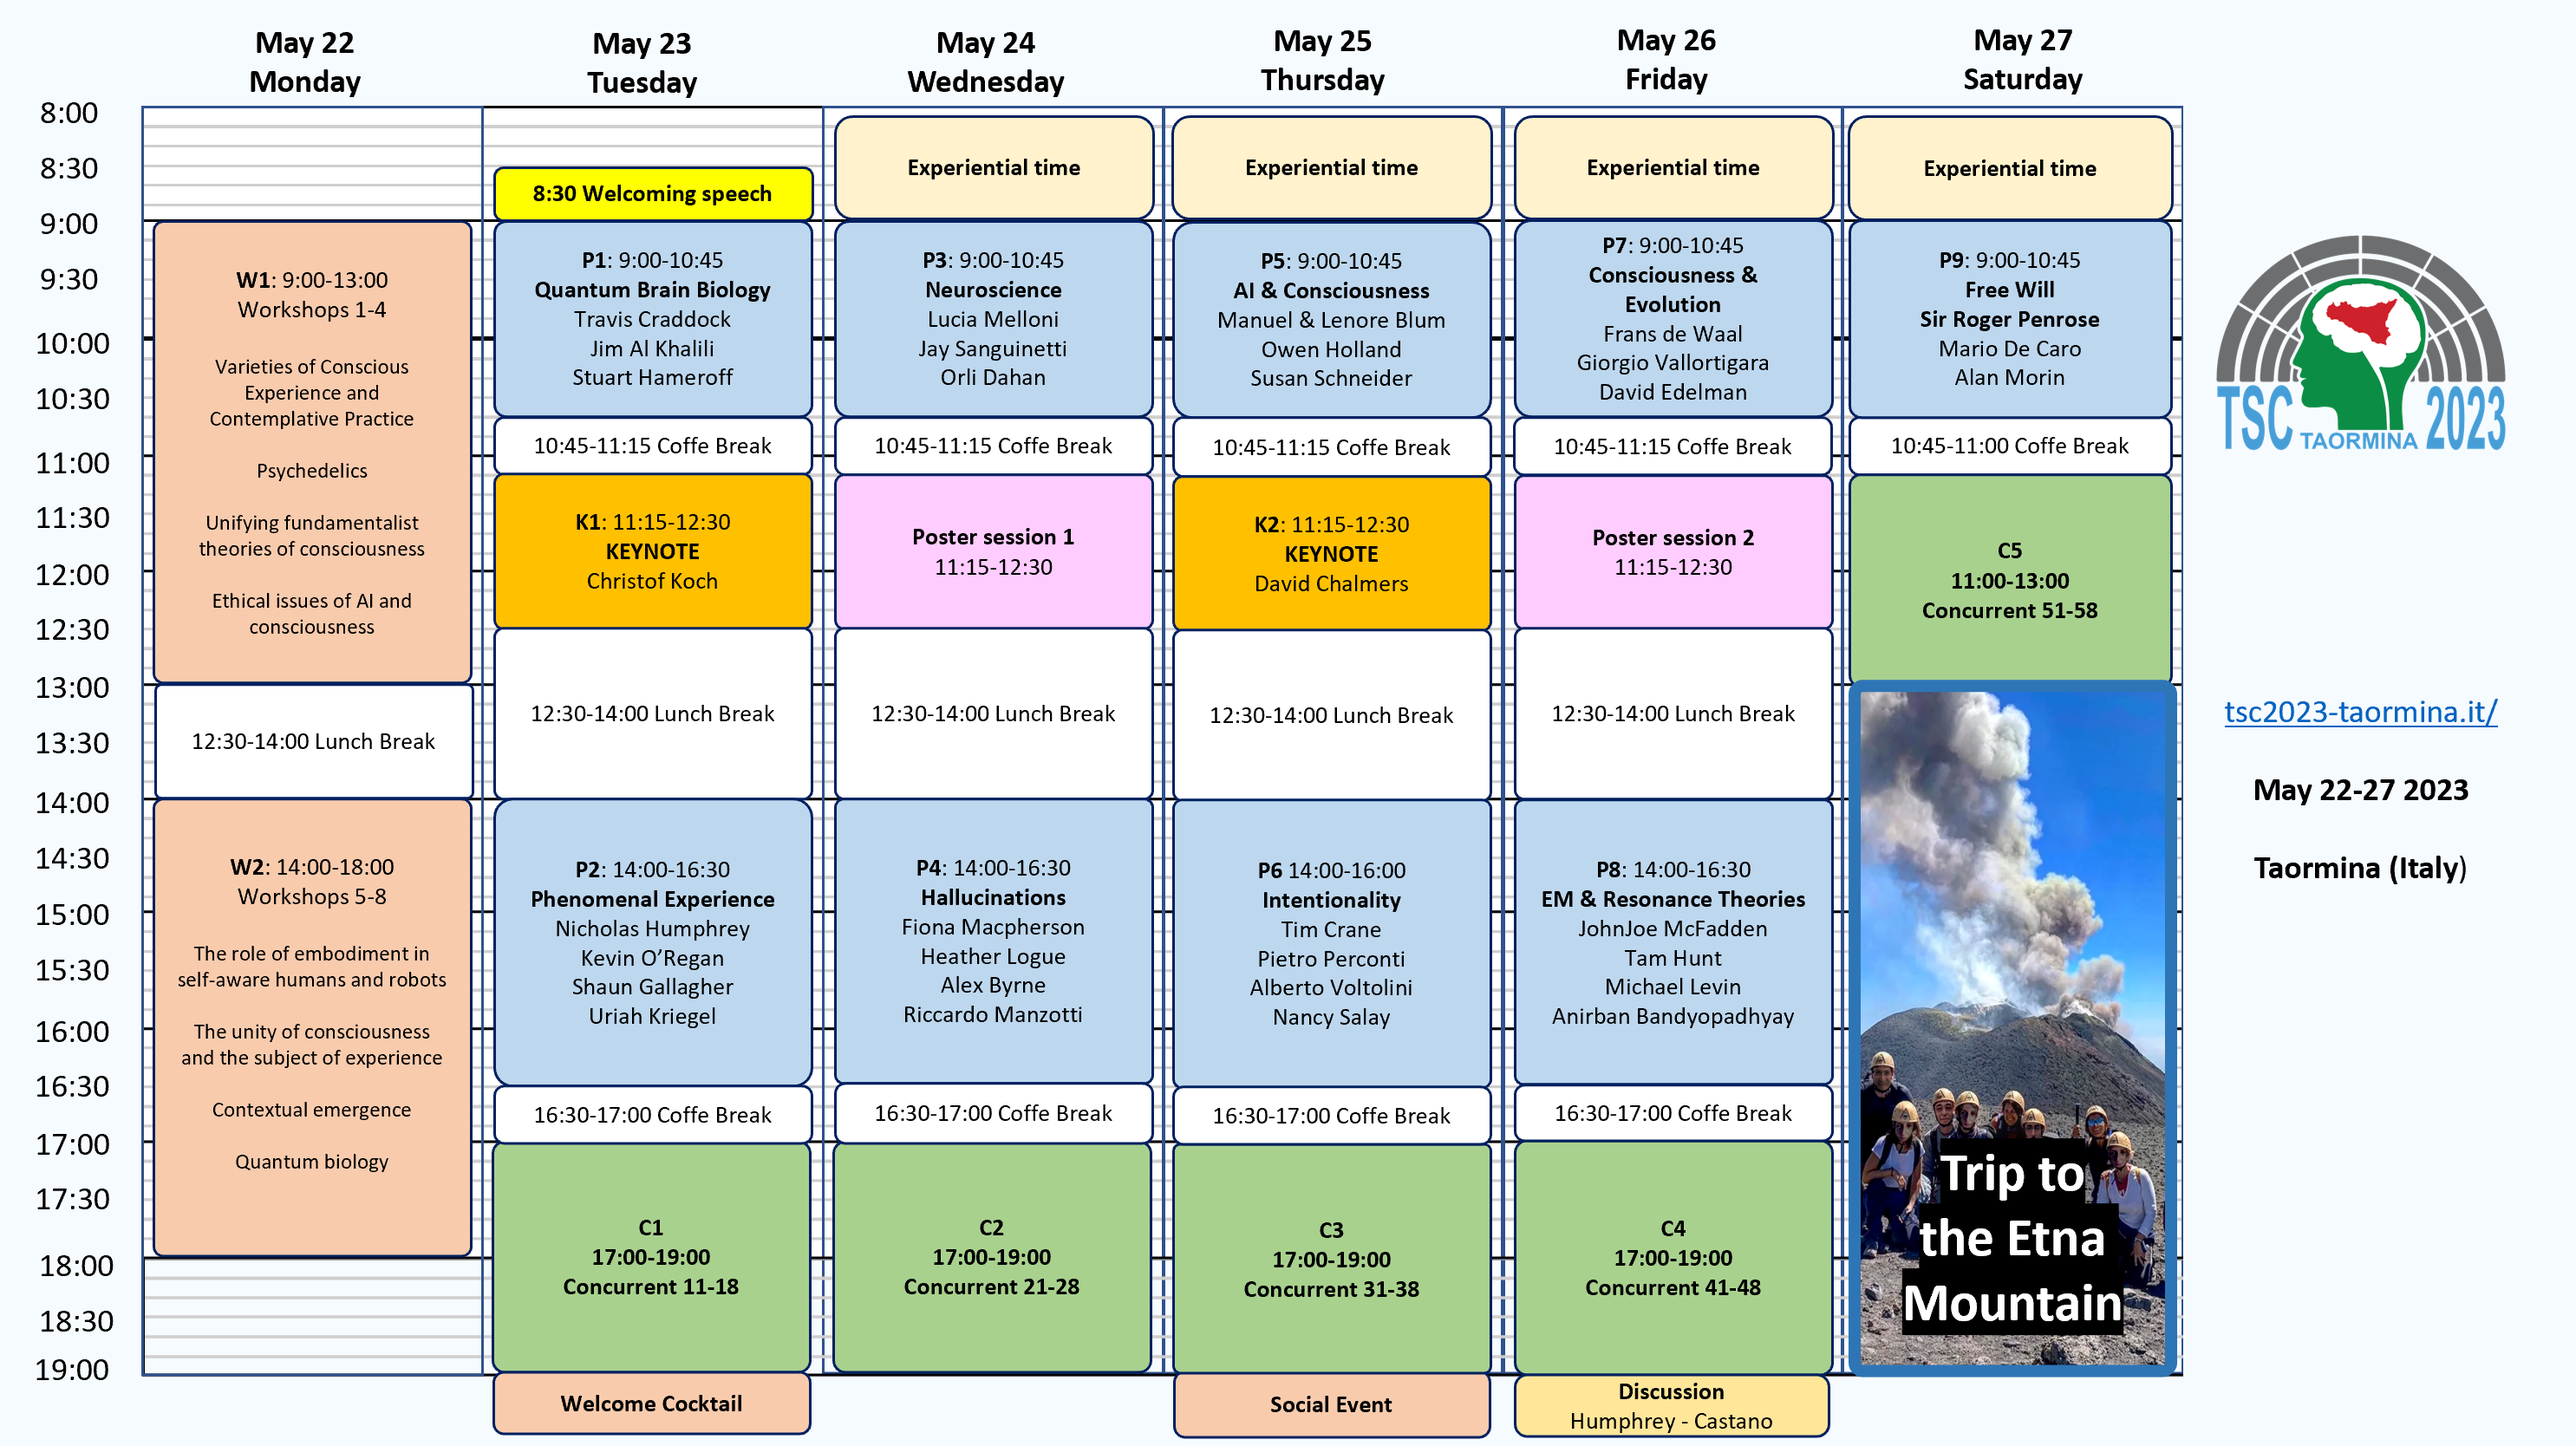
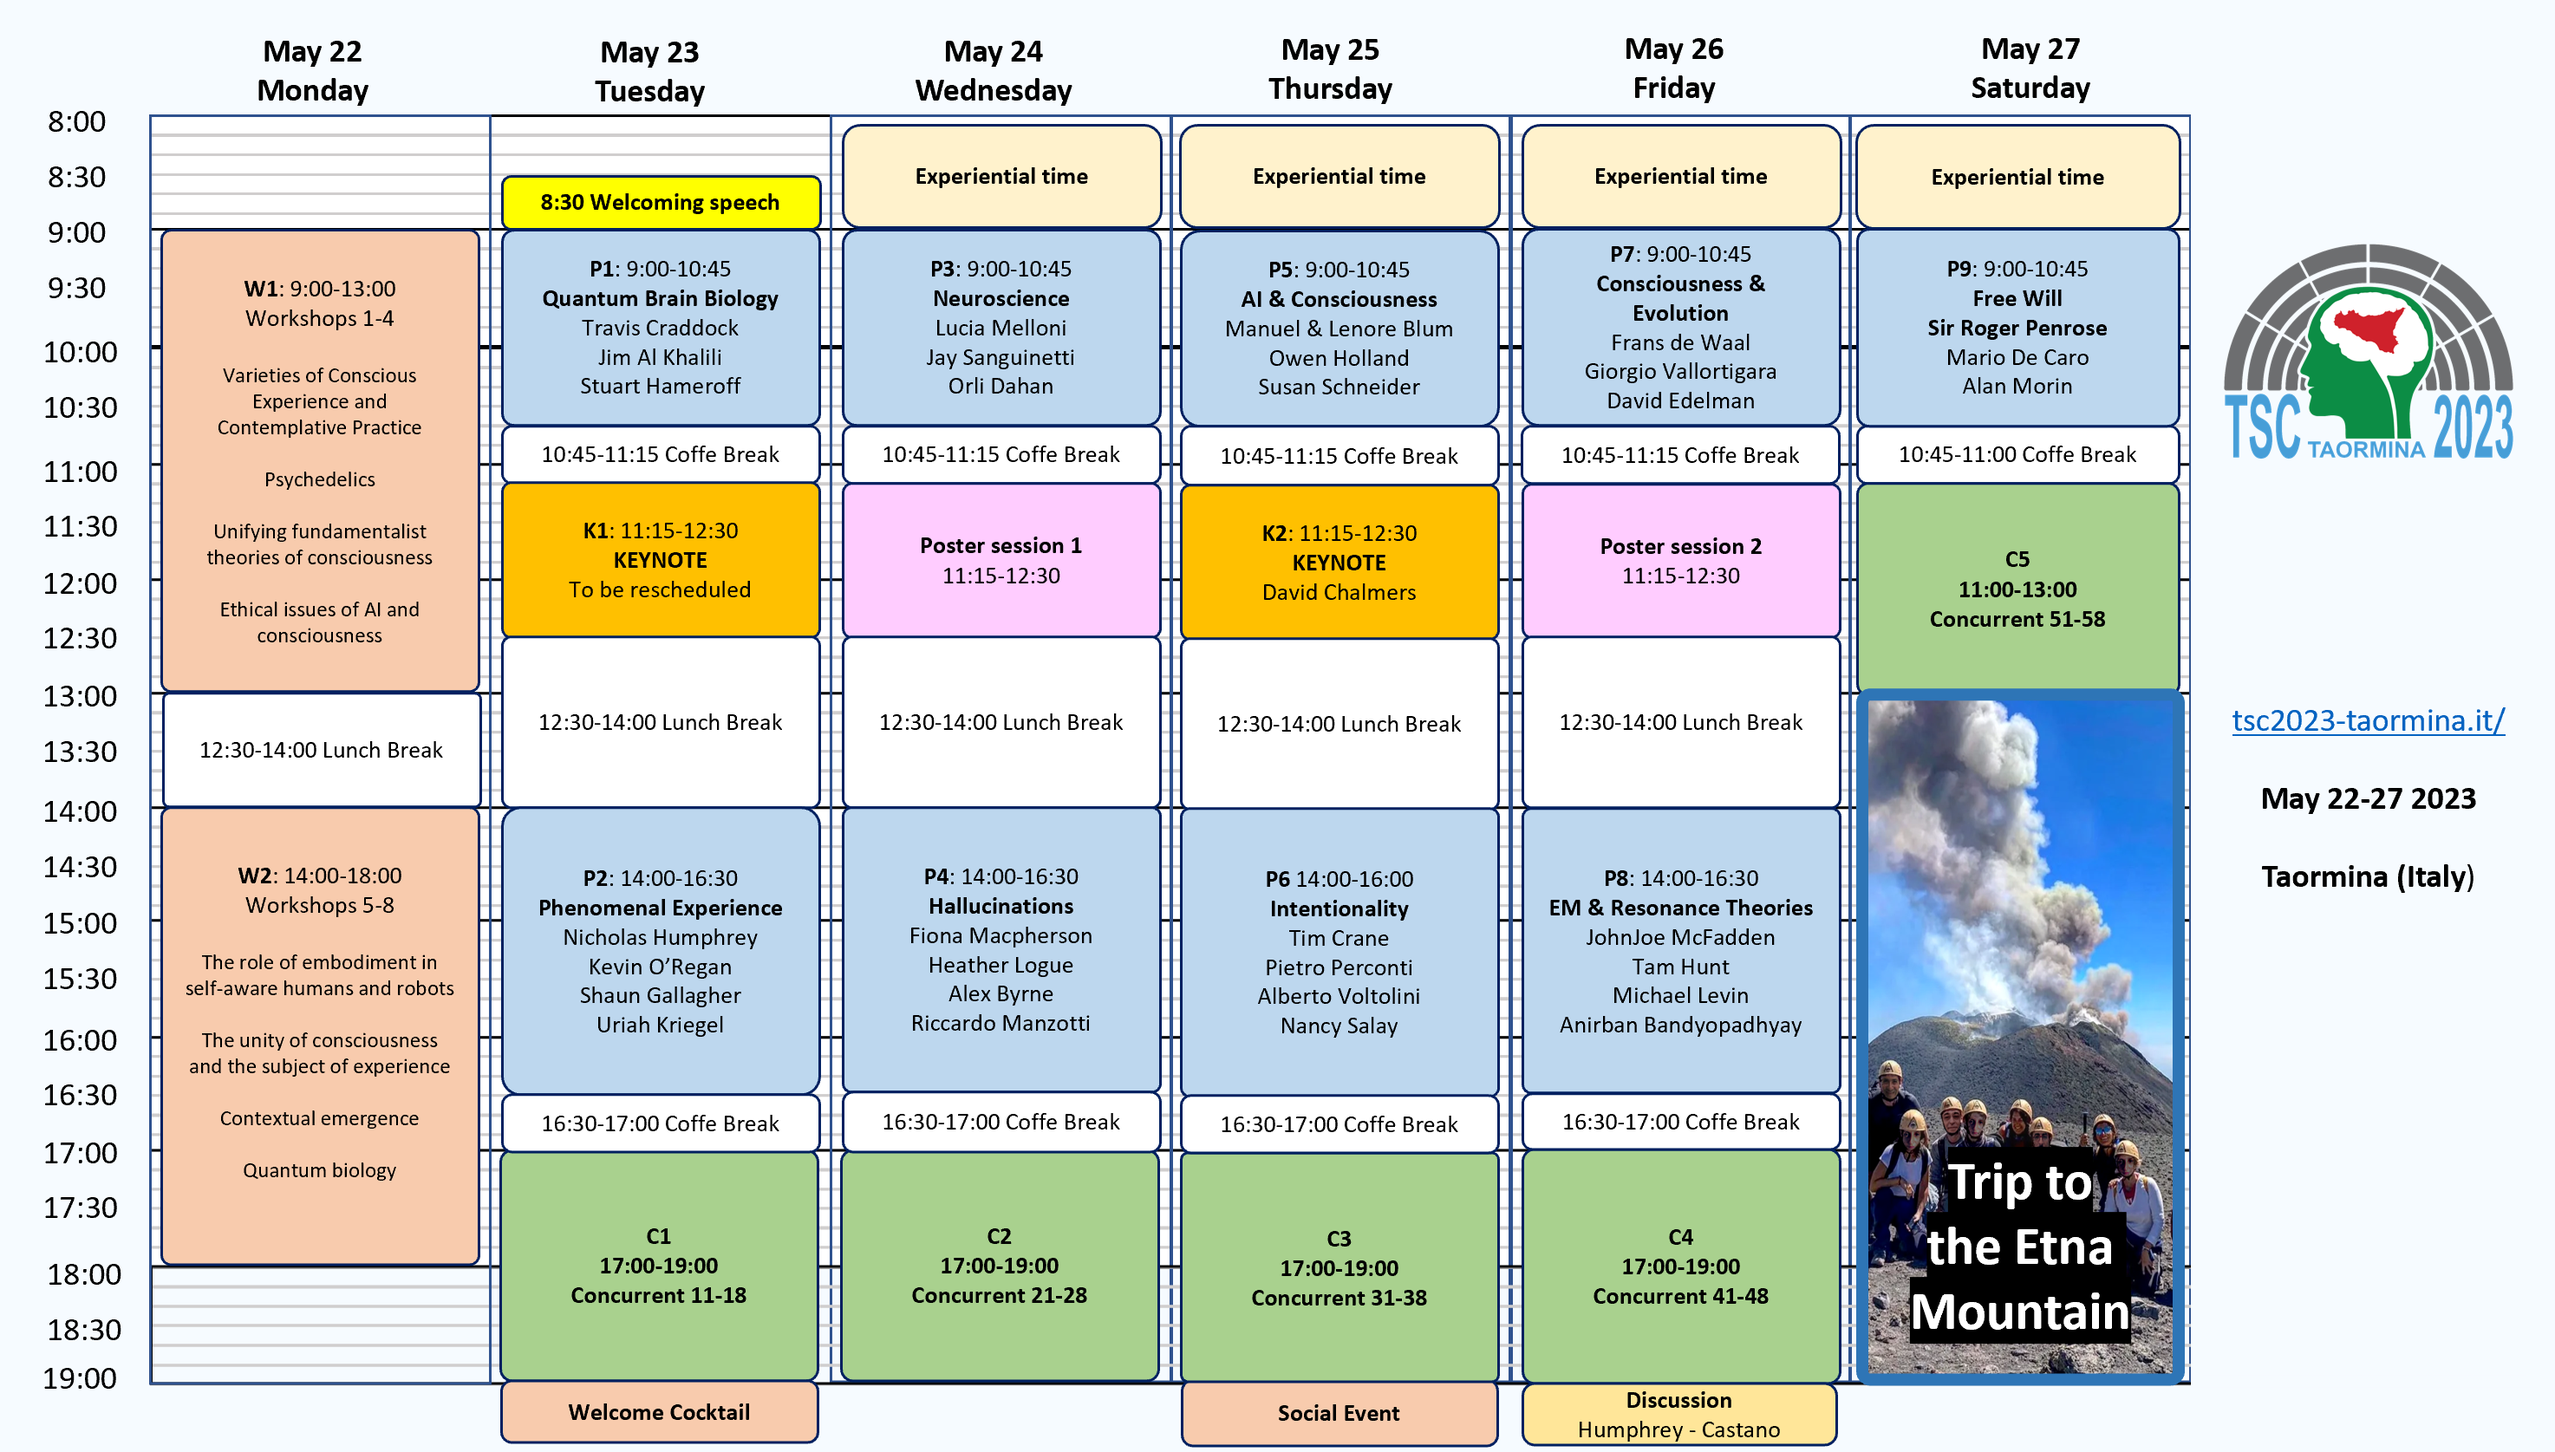
registr and program

Changed region(s): [[0.0, 0.0, 0.999, 0.9976]]

diff --git a/dates.html b/dates.html
@@ -75,15 +75,12 @@ License URL: http://creativecommons.org/licenses/by/3.0/
                 <p>● Abstract notifications by January 20th</p>
             </li>
             <li>
-                <p>● <a href="https://www.bisazzagangi.it/tsc2023/registration.php?ITEM=regform"
+                <p style="color: red;">● Registration closed (March 10th)<!--<a href="https://www.bisazzagangi.it/tsc2023/registration.php?ITEM=regform"
                         target="_blank">Registration now
-                        open</a></p>
+                        open</a>--></p>
             </li>
             <li>
-                <p style="color: red;">● NEW REGISTRATION DEADLINE 10th MARCH 2023.</p> 
-            </li>
-            <li>
-                <p>● May 23rd-28th, Taormina TSC2023</p>
+                <p>● May 22nd-28th, Taormina TSC2023</p>
             </li>
         </ul>
         <br><br>

diff --git a/registration.html b/registration.html
@@ -68,11 +68,12 @@
 					Dinner tickets are no more available.
 				</p>
 				<p>Hotel rooms are no more available. Please you should book your accommodation by yourself.</p>
-				<p style="color: red;">NEW REGISTRATION DEADLINE 10th MARCH 2023.</p> <p><strong>No refund will be allowed</strong> </p>
+				<p style="color: red;">REGISTRATION CLOSED</p> <p><strong>No refund will be allowed</strong> </p>
 				<div class="col-12 text-center">
-
+					<!--
 					<a href="https://www.bisazzagangi.it/tsc2023/registration.php?ITEM=regform" class="btn btn-info" role="button"
 						target="_blank">Registration</a>
+				-->
 					<br>
 
 

diff --git a/program.html b/program.html
@@ -96,8 +96,8 @@ License URL: http://creativecommons.org/licenses/by/3.0/
 				<h3 class="text-center">Keynote and Plenary Speakers List of TSC2023</h3>
 				<p class="text-center">
 					<br>
-					<strong>Keynote</strong><br>
-					Christof Koch - David Chalmers - Sir. Roger Penrose
+					<strong>Keynotes</strong><br>
+					David Chalmers - Sir. Roger Penrose - To be 	
 					<br><br>
 					<strong>P1: Quantum Brain Biology</strong><br>
 					Stuart Hameroff - Jim Al Khalili - <!-- Aristide Dogariu - --> Travis Craddock
